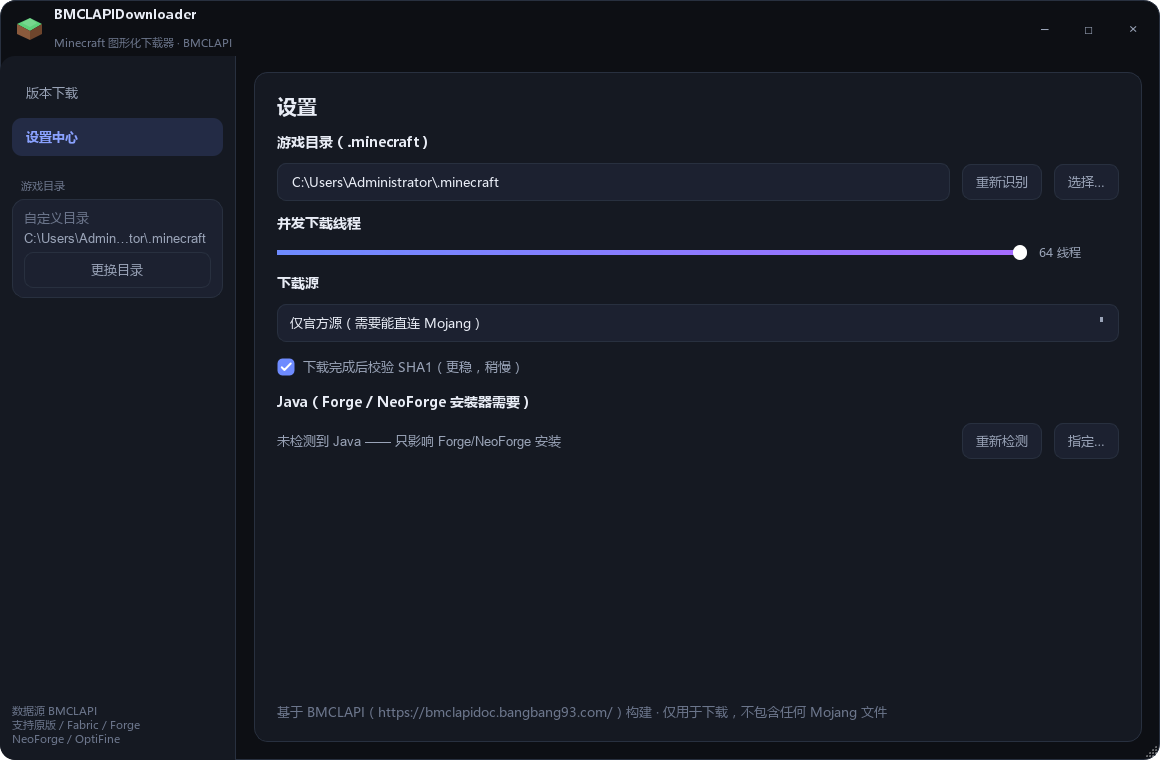
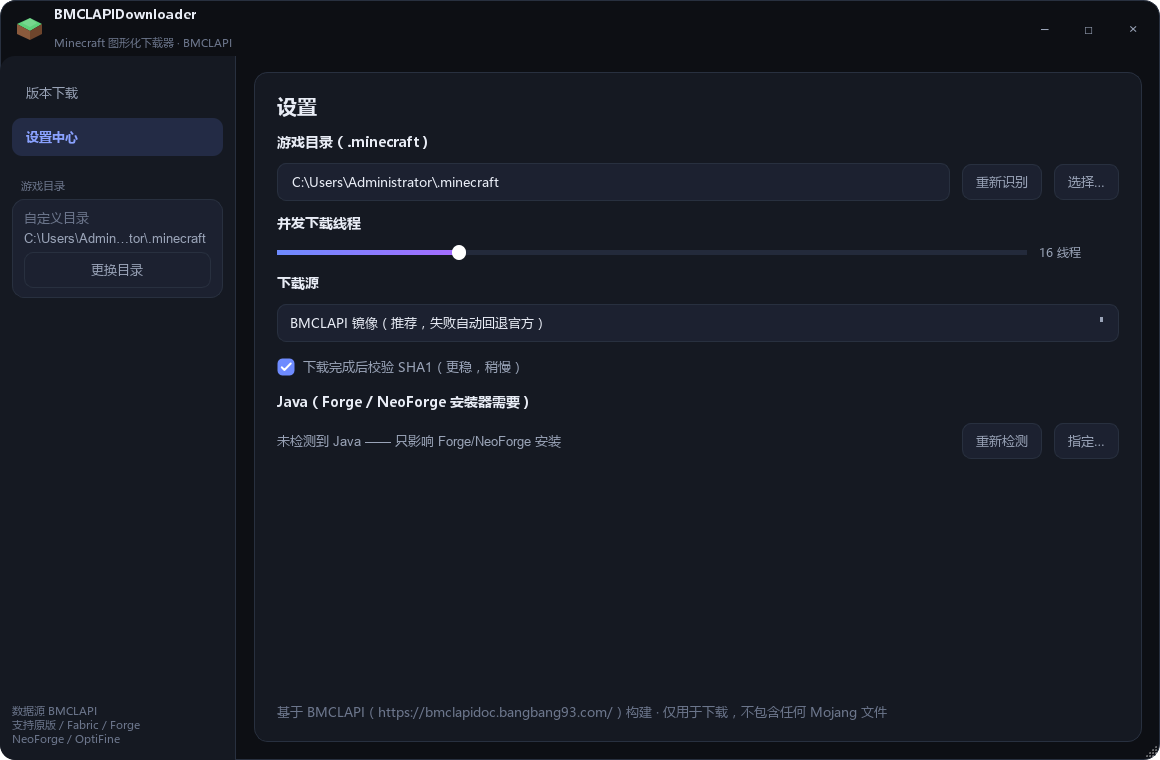
docs: 更新截图与 README 下载链接，补版本目录名测试
- README 加 v0.1.0 下载链接、界面截图与功能说明
- 新增 tools/test_version_name.py（目录名校验 + Forge 改名单测）
- 新增 tools/verify_exe.py（打包产物启动自检）

Changed region(s): [[0.3414, 0.3026, 0.9, 0.3632], [0.2483, 0.3934, 0.4655, 0.4539]]

diff --git a/tools/test_version_name.py b/tools/test_version_name.py
@@ -1,0 +1,72 @@
+"""不联网的单元测试：版本目录名校验 + Forge 装完改名逻辑。"""
+import json
+import sys
+import tempfile
+from pathlib import Path
+
+sys.path.insert(0, str(Path(__file__).resolve().parent.parent))
+
+from app import installer as inst  # noqa: E402
+
+fails = []
+
+
+def check(name, cond, extra=""):
+    print(("  [OK] " if cond else "  [!!] ") + name + (f"  {extra}" if extra else ""))
+    if not cond:
+        fails.append(name)
+
+
+print("== 版本目录名校验 ==")
+check("空名字=自动", inst.check_version_name("") is None)
+check("正常名字", inst.check_version_name("1.20.1-fabric") is None)
+check("中文可以", inst.check_version_name("我的整合包") is None)
+check("斜杠非法", inst.check_version_name("a/b") is not None)
+check("冒号非法", inst.check_version_name("a:b") is not None)
+check("问号非法", inst.check_version_name("a?b") is not None)
+check(".. 非法", inst.check_version_name("..") is not None)
+check("CON 保留", inst.check_version_name("con") is not None)
+check("结尾点非法", inst.check_version_name("abc.") is not None)
+check("首尾空格非法", inst.check_version_name(" abc") is not None)
+check("超长非法", inst.check_version_name("x" * 80) is not None)
+
+print("== Forge 装完改名 ==")
+tmp = Path(tempfile.mkdtemp(prefix="mcdl-test-"))
+gd = tmp / ".minecraft"
+old = "1.20.1-forge-47.3.0"
+vd = gd / "versions" / old
+vd.mkdir(parents=True)
+(vd / f"{old}.json").write_text(
+    json.dumps({"id": old, "inheritsFrom": "1.20.1", "jar": "1.20.1"}), "utf-8")
+(vd / f"{old}.jar").write_text("fake", "utf-8")
+(vd / f"{old}-natives").mkdir()
+
+ins = inst.Installer()
+new_id = ins._rename_version(gd, old, "我的Forge端")
+new_dir = gd / "versions" / new_id
+
+check("返回新名字", new_id == "我的Forge端", new_id)
+check("旧目录没了", not vd.exists())
+check("新目录存在", new_dir.is_dir())
+check("json 已改名", (new_dir / "我的Forge端.json").is_file())
+data = json.loads((new_dir / "我的Forge端.json").read_text("utf-8"))
+check("json 内 id 已同步", data.get("id") == "我的Forge端", str(data.get("id")))
+check("inheritsFrom 保留", data.get("inheritsFrom") == "1.20.1")
+check("jar 未改动", data.get("jar") == "1.20.1")
+check("natives 目录跟着改名", (new_dir / "我的Forge端-natives").is_dir())
+check("其余文件还在", (new_dir / "1.20.1-forge-47.3.0.jar").is_file())
+
+# 目标已存在时要报错
+(gd / "versions" / "占位").mkdir()
+try:
+    ins._rename_version(gd, "我的Forge端", "占位")
+    check("目标重名报错", False)
+except RuntimeError:
+    check("目标重名报错", True)
+
+import shutil  # noqa: E402
+shutil.rmtree(tmp, ignore_errors=True)
+
+print()
+print("失败项:", fails if fails else "无")
+sys.exit(1 if fails else 0)

diff --git a/tools/verify_exe.py b/tools/verify_exe.py
@@ -1,0 +1,56 @@
+"""验证打包后的 exe：能否启动、是否正常初始化、有没有崩溃日志。"""
+import os
+import subprocess
+import sys
+import time
+from pathlib import Path
+
+ROOT = Path(__file__).resolve().parent.parent
+EXE = ROOT / "dist" / "BMCLAPIDownloader.exe"
+APPDATA = Path(os.environ.get("APPDATA") or Path.home()) / "BMCLAPIDownloader"
+CFG = APPDATA / "config.json"
+CRASH = APPDATA / "crash.log"
+
+print("exe:", EXE, f"{EXE.stat().st_size / 1048576:.1f} MB")
+
+for f in (CFG, CRASH):
+    if f.exists():
+        f.unlink()
+
+env = dict(os.environ)
+env["QT_QPA_PLATFORM"] = "offscreen"
+env["MCDL_SKIP_SCAN"] = "1"
+
+proc = subprocess.Popen([str(EXE)], env=env,
+                        stdout=subprocess.PIPE, stderr=subprocess.STDOUT)
+print("已启动 pid", proc.pid)
+
+alive = None
+for i in range(1, 16):
+    time.sleep(1)
+    alive = proc.poll() is None
+    if CFG.exists() or CRASH.exists():
+        break
+
+print(f"{i} 秒后：进程存活={alive}, 退出码={proc.returncode}")
+print("config.json 存在:", CFG.exists())
+print("crash.log 存在:", CRASH.exists())
+
+if CRASH.exists():
+    print("--- crash.log ---")
+    print(CRASH.read_text("utf-8", errors="replace")[:2000])
+
+if CFG.exists():
+    print("--- config.json ---")
+    print(CFG.read_text("utf-8", errors="replace")[:400])
+
+# 收尾
+if proc.poll() is None:
+    proc.terminate()
+    try:
+        proc.wait(timeout=5)
+    except subprocess.TimeoutExpired:
+        proc.kill()
+    print("已结束进程")
+
+sys.exit(0 if (alive and CFG.exists() and not CRASH.exists()) else 1)

diff --git a/README.md b/README.md
@@ -2,6 +2,8 @@
 
 > 版本 **0.1.0** · 单文件 exe 约 21 MB · Windows 7+
 
+**[⬇ 下载 BMCLAPIDownloader.exe](https://github.com/imgjx/BMCLAPIDownloader/releases/latest)**
+
 基于 [BMCLAPI](https://bmclapidoc.bangbang93.com/) 的 Minecraft 下载工具，纯 Python + PyQt5，
 替代已经跑路的 PCL2 下载功能。国内网络友好（镜像加速 + 自动回退官方源）。
 
@@ -32,6 +34,12 @@
 - **顺手做的事**：往 `launcher_profiles.json` 写一条 profile，官方启动器也能直接看到新版本
 
 ## 界面
+
+![主界面](preview/01-download.png)
+
+![安装进度](preview/03-progress.png)
+
+![设置](preview/02-settings.png)
 
 - 无边框深色窗口，圆角卡片、渐变强调色、自绘等距草方块图标
 - 尺寸自适应：按屏幕可用区域决定初始大小并居中，最小尺寸跟随屏幕缩放；
